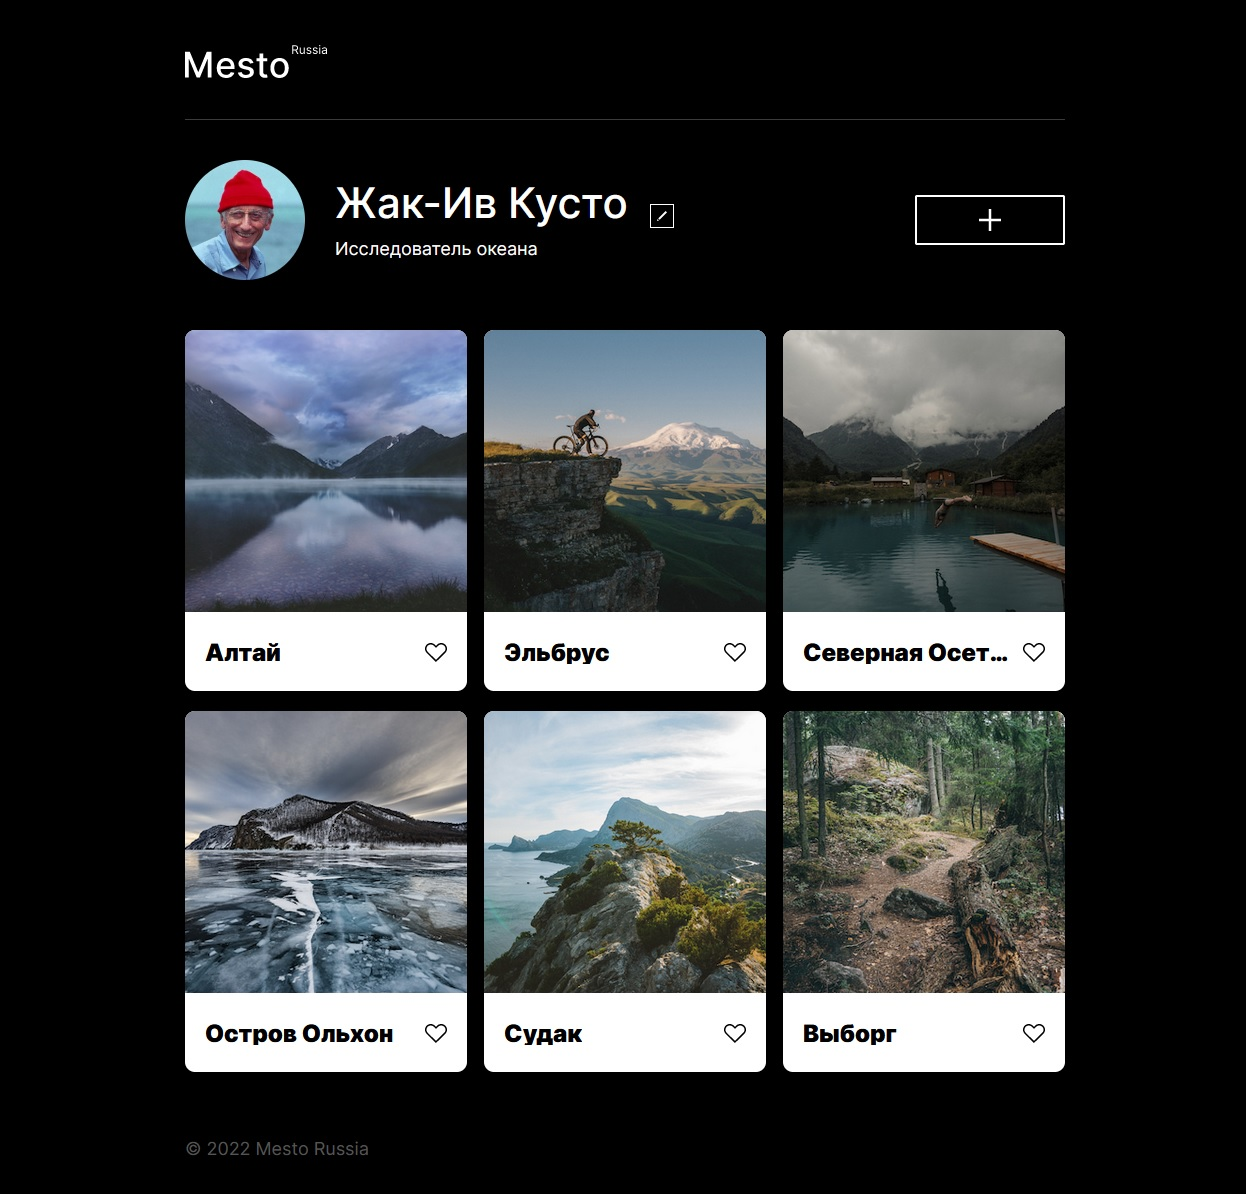
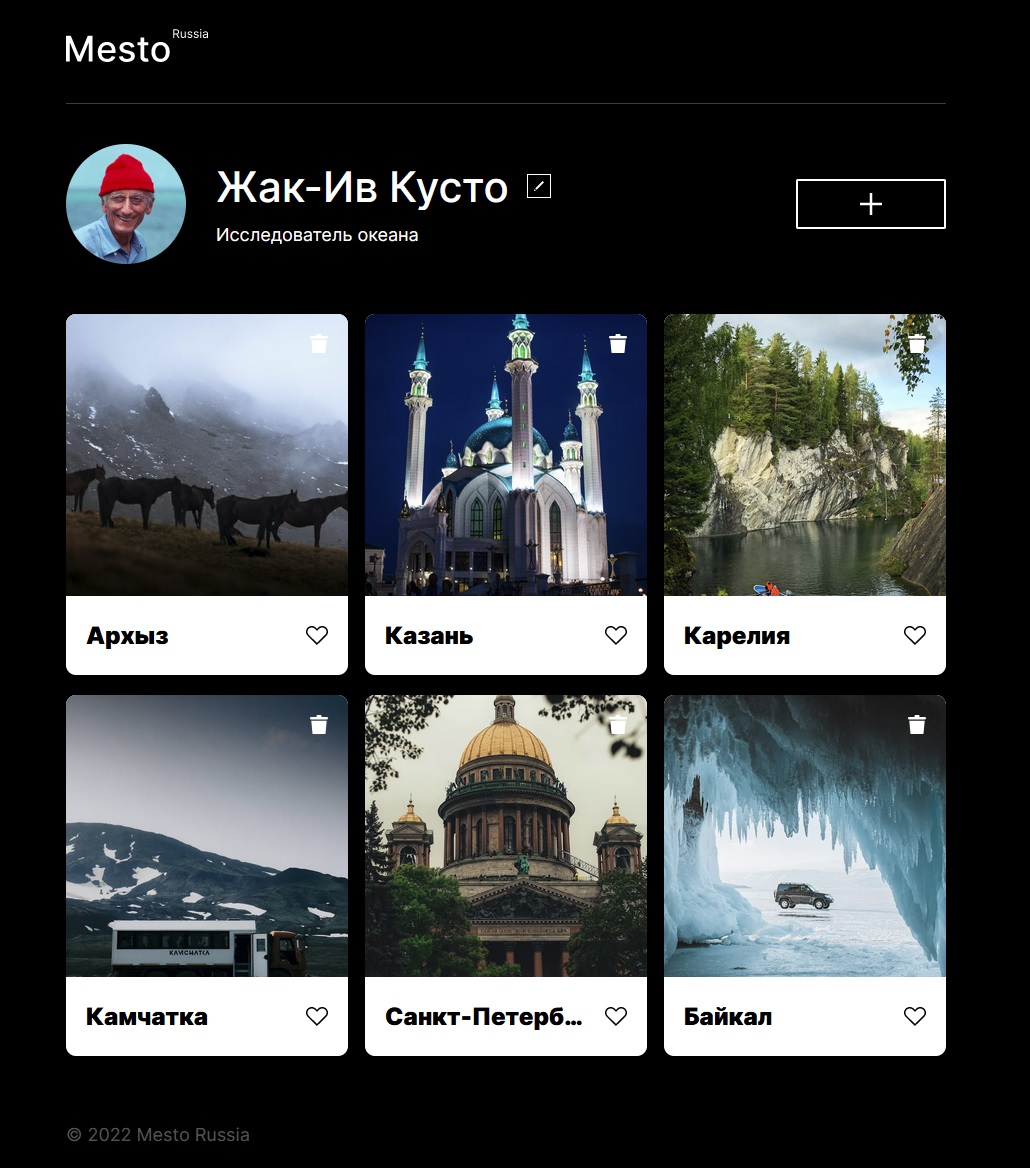
feat: add full interactive page

diff --git a/scripts/index.js b/scripts/index.js
@@ -1,31 +1,138 @@
-const buttonEdit = document.querySelector('.profile__edit-button');
-const buttonClose = document.querySelector('.popup__close-button');
-const popup = document.querySelector('.popup');
-const inputName = document.querySelector('#name-input');
-const inputStatus = document.querySelector('#status-input');
+const initialCards = [
+  {
+    name: 'Архыз',
+    link: 'https://images.unsplash.com/photo-1638989280415-d58f7340b273?ixlib=rb-4.0.3&ixid=MnwxMjA3fDB8MHxwaG90by1wYWdlfHx8fGVufDB8fHx8&auto=format&fit=crop&w=1828&q=80'
+  },
+  {
+    name: 'Казань',
+    link: 'https://images.unsplash.com/photo-1591813009502-761ba948ac9e?ixlib=rb-4.0.3&ixid=MnwxMjA3fDB8MHxwaG90by1wYWdlfHx8fGVufDB8fHx8&auto=format&fit=crop&w=774&q=80'
+  },
+  {
+    name: 'Карелия',
+    link: 'https://images.unsplash.com/photo-1573156667495-f14c98bc2ebc?ixlib=rb-4.0.3&ixid=MnwxMjA3fDB8MHxwaG90by1wYWdlfHx8fGVufDB8fHx8&auto=format&fit=crop&w=870&q=80'
+  },
+  {
+    name: 'Камчатка',
+    link: 'https://images.unsplash.com/photo-1645016978367-5a81d12f915d?ixlib=rb-4.0.3&ixid=MnwxMjA3fDB8MHxwaG90by1wYWdlfHx8fGVufDB8fHx8&auto=format&fit=crop&w=776&q=80'
+  },
+  {
+    name: 'Санкт-Петербург',
+    link: 'https://images.unsplash.com/photo-1630535879508-9a3a8967d9be?ixlib=rb-4.0.3&ixid=MnwxMjA3fDB8MHxzZWFyY2h8MzB8fCVEMCVBMSVEMCVCMCVEMCVCRCVEMCVCQSVEMSU4MiUyMCVEMCU5RiVEMCVCNSVEMSU4MiVEMCVCNSVEMSU4MCVEMCVCMSVEMSU4MyVEMSU4MCVEMCVCM3xlbnwwfHwwfHw%3D&auto=format&fit=crop&w=500&q=60'
+  },
+  {
+    name: 'Байкал',
+    link: 'https://images.unsplash.com/photo-1614000531402-74cca389903f?ixlib=rb-4.0.3&ixid=MnwxMjA3fDB8MHxwaG90by1wYWdlfHx8fGVufDB8fHx8&auto=format&fit=crop&w=774&q=80'
+  }
+];
+
 const profileName = document.querySelector('.profile__name');
 const profileStatus = document.querySelector('.profile__status');
-const formPopup = document.querySelector('#form-popup');
+const buttonEdit = document.querySelector('.profile__edit-button');
+
+const popupEdit = document.querySelector('#popup-edit');
+const inputName = popupEdit.querySelector('#name-input');
+const inputStatus = popupEdit.querySelector('#status-input');
+const formPopupEdit = popupEdit.querySelector('#form-popup');
+
+const buttonsClose = document.querySelectorAll('.popup__close-button');
+
+const buttonAdd = document.querySelector('.profile__add-button');
+
+const popupAdd = document.querySelector('#popup-add');
+const formPopupAdd = popupAdd.querySelector('#form-popup');
+
+const cardTemplate = document.querySelector('#card-template').content;
+const cardsContainer = document.querySelector('.photos__cards-container');
+
+const initCards = () => {
+  const fragment = document.createDocumentFragment();
+
+  initialCards.forEach(({name, link}) => {
+    const cardClone = cardTemplate.querySelector('.card').cloneNode(true);
+
+    cardClone.querySelector('.card__name').textContent = name;
+    cardClone.querySelector('.card__img').src = link;
+    cardClone.querySelector('.card__img').alt = name;
+    fragment.append(cardClone);
+  });
+
+  cardsContainer.append(fragment);
+};
 
 const openEditProfile = () => {
   inputName.value = profileName.textContent;
   inputStatus.value = profileStatus.textContent;
-  popup.classList.add('popup_opened');
+  popupEdit.classList.add('popup_opened');
 };
 
-const closeEditProfile = () => {
-  popup.classList.remove('popup_opened');
+const closePopup = (evt) => {
+  evt.target.closest('.popup').classList.remove('popup_opened');
+  const inputsForm = evt.target.parentNode.querySelectorAll('.popup__input');
+  inputsForm.forEach(el => el.value = '');
 };
 
 const sendFormEditProfile = (evt) => {
   evt.preventDefault();
+
   profileName.textContent = inputName.value;
   profileStatus.textContent = inputStatus.value;
-  closeEditProfile();
+
+  closePopup(evt);
 };
 
+const openAddPicture = () => {
+  popupAdd.classList.add('popup_opened');
+};
+
+const createPicture = (evt) => {
+  evt.preventDefault();
+
+  const inputTitlePlace = popupAdd.querySelector('#title-place-input');
+  const inputSourceImage = popupAdd.querySelector('#source-image-input');
+  const cardClone = cardTemplate.querySelector('.card').cloneNode(true);
+
+  cardClone.querySelector('.card__name').textContent = inputTitlePlace.value;
+  cardClone.querySelector('.card__img').src = inputSourceImage.value;
+  cardClone.querySelector('.card__img').alt = inputTitlePlace.value;
+
+  cardsContainer.prepend(cardClone);
+
+  closePopup(evt);
+};
+
+const likeButton = (evt) => {
+  if (evt.target.classList.contains('card__like-button')) {
+    evt.target.classList.toggle('card__like-button_active');
+  }
+};
+
+const deletePicture = (evt) => {
+  if (evt.target.classList.contains('card__trash-button')) {
+    evt.target.closest('.card').remove();
+  }
+};
+
+const openPopupPicture = (evt) => {
+  const popupPicture = document.querySelector('#popup-picture');
+  const picture = popupPicture.querySelector('.popup__img');
+
+  if (evt.target.classList.contains('card__img')) {
+    picture.src = evt.target.src;
+    picture.alt = evt.target.alt;
+    popupPicture.querySelector('.popup__caption').textContent = evt.target.parentNode.querySelector('.card__name').textContent;
+    popupPicture.classList.add('popup_opened');
+  }
+};
+
+initCards();
+
 buttonEdit.addEventListener('click', openEditProfile);
+buttonAdd.addEventListener('click', openAddPicture);
+buttonsClose.forEach(el => el.addEventListener('click', closePopup));
 
-buttonClose.addEventListener('click', closeEditProfile);
+formPopupEdit.addEventListener('submit', sendFormEditProfile);
+formPopupAdd.addEventListener('submit', createPicture);
 
-formPopup.addEventListener('submit', sendFormEditProfile);
+cardsContainer.addEventListener('click', likeButton);
+cardsContainer.addEventListener('click', deletePicture);
+cardsContainer.addEventListener('click', openPopupPicture)

diff --git a/index.html b/index.html
@@ -13,6 +13,7 @@
       <img src="./images/logo.svg" alt="Логотип сайта" class="header__logo">
     </a>
   </header>
+
   <main>
     <section class="profile" aria-label="Профиль">
       <div class="profile__container">
@@ -28,57 +29,15 @@
       <button type="button" class="profile__add-button button" aria-label="Добавить фотографию"></button>
     </section>
     <section class="photos" aria-label="Фотографии">
-      <ul class="photos__cards-container">
-        <li class="card">
-          <img src="./images/altai.jpg" alt="Пасмурная, приятного цвета погода на берегу озера на фоне больших, красивых гор" class="card__img">
-          <div class="card__container">
-            <h2 class="card__name">Алтай</h2>
-            <button type="button" class="card__like-button button" aria-label="Лайк"></button>
-          </div>
-        </li>
-        <li class="card">
-          <img src="./images/elbrus.jpg" alt="Высокий, резкий обрыв, на котором силуэт велосипедиста, смотрящего вдаль, на зеленые поля и горы со снегом" class="card__img">
-          <div class="card__container">
-            <h2 class="card__name">Эльбрус</h2>
-            <button type="button" class="card__like-button button" aria-label="Лайк"></button>
-          </div>
-        </li>
-        <li class="card">
-          <img src="./images/north-osetia.jpg" alt="Парень ныряет в озеро, на другом берегу коттеджный дом. На фоне Высокие горы, пропадающие в облаках" class="card__img">
-          <div class="card__container">
-            <h2 class="card__name">Северная Осетия</h2>
-            <button type="button" class="card__like-button button" aria-label="Лайк"></button>
-          </div>
-        </li>
-        <li class="card">
-          <img src="./images/olkhon-island.jpg" alt="Покрытое толстым льдом озеро, на фоне заснеженный, скалистый остров" class="card__img">
-          <div class="card__container">
-            <h2 class="card__name">Остров Ольхон</h2>
-            <button type="button" class="card__like-button button" aria-label="Лайк"></button>
-          </div>
-        </li>
-        <li class="card">
-          <img src="./images/sudak.jpg" alt="Вид с высоких гор на море, посередине горный выступ с деревом" class="card__img">
-          <div class="card__container">
-            <h2 class="card__name">Судак</h2>
-            <button type="button" class="card__like-button button" aria-label="Лайк"></button>
-          </div>
-        </li>
-        <li class="card">
-          <img src="./images/vyborg.jpg" alt="Лесная роща с огромными, покрытыми мхом валунами" class="card__img">
-          <div class="card__container">
-            <h2 class="card__name">Выборг</h2>
-            <button type="button" class="card__like-button button" aria-label="Лайк"></button>
-          </div>
-        </li>
-      </ul>
+      <ul class="photos__cards-container"></ul>
     </section>
   </main>
+
   <footer class="footer">
     <p class="footer__copyright" lang="en">&copy; 2022 Mesto Russia</p>
   </footer>
 
-  <div class="popup">
+  <div id="popup-edit" class="popup">
     <div class="popup__container">
       <button type="button" class="popup__close-button button" aria-label="Закрытие формы"></button>
       <form action="#" id="form-popup" name="form-popup">
@@ -89,6 +48,40 @@
       </form>
     </div>
   </div>
+
+  <div id="popup-add" class="popup">
+    <div class="popup__container">
+      <button type="button" class="popup__close-button button" aria-label="Закрытие формы"></button>
+      <form action="#" id="form-popup" name="form-popup">
+        <h2 class="popup__name">Новое место</h2>
+        <input id="title-place-input" name="title-place" class="popup__input" type="text" placeholder="Название">
+        <input id="source-image-input" name="source-image" class="popup__input" type="text" placeholder="Ссылка на картинку">
+        <button class="popup__submit-button button" type="submit">Создать</button>
+      </form>
+    </div>
+  </div>
+
+  <div id="popup-picture" class="popup">
+    <div class="popup__container popup__container_type_picture">
+      <button type="button" class="popup__close-button button" aria-label="Закрытие полноэкранного просмотра картинки"></button>
+      <figure class="popup__figure">
+        <img class="popup__img" src="" alt="">
+        <figcaption class="popup__caption"></figcaption>
+      </figure>
+    </div>
+  </div>
+
+  <template id="card-template">
+    <li class="card">
+      <button type="button" class="card__trash-button button" aria-label="Корзина"></button>
+      <img src="" alt="" class="card__img">
+      <div class="card__container">
+        <h2 class="card__name"></h2>
+        <button type="button" class="card__like-button button" aria-label="Лайк"></button>
+      </div>
+    </li>
+  </template>
+  
   <script src="./scripts/index.js"></script>
 </body>
 </html>

diff --git a/pages/index.css b/pages/index.css
@@ -6,10 +6,12 @@
 @import url(../blocks/page/page.css);
 
 @import url(../blocks/card/card.css);
+@import url(../blocks/card/__trash-button/card__trash-button.css);
 @import url(../blocks/card/__img/card__img.css);
 @import url(../blocks/card/__container/card__container.css);
 @import url(../blocks/card/__name/card__name.css);
 @import url(../blocks/card/__like-button/card__like-button.css);
+@import url(../blocks/card/__like-button/_active/card__like-button_active.css);
 
 @import url(../blocks/header/header.css);
 @import url(../blocks/header/__logo-link/header__logo-link.css);
@@ -32,8 +34,12 @@
 
 @import url(../blocks/popup/popup.css);
 @import url(../blocks/popup/__container/popup__container.css);
+@import url(../blocks/popup/__container/_type/popup__container_type_picture.css);
 @import url(../blocks/popup/__name/popup__name.css);
 @import url(../blocks/popup/__input/popup__input.css);
 @import url(../blocks/popup/__submit-button/popup__submit-button.css);
 @import url(../blocks/popup/__close-button/popup__close-button.css);
 @import url(../blocks/popup/_opened/popup_opened.css);
+@import url(../blocks/popup/__figure/popup__figure.css);
+@import url(../blocks/popup/__img/popup__img.css);
+@import url(../blocks/popup/__caption/popup__caption.css);

diff --git a/blocks/card/__trash-button/card__trash-button.css b/blocks/card/__trash-button/card__trash-button.css
@@ -1,0 +1,16 @@
+.card__trash-button {
+  position: absolute;
+  top: 20px;
+  right: 20px;
+  width: 18px;
+  height: 19px;
+  background-image: url(../../../images/trash-button.svg);
+  background-repeat: no-repeat;
+  background-position: center center;
+  border: none;
+  transition: opacity .3s ease-in-out;
+}
+
+.card__trash-button:hover {
+  opacity: .6;
+}

diff --git a/blocks/popup/popup.css b/blocks/popup/popup.css
@@ -1,11 +1,14 @@
 .popup {
+  display: flex;
   position: fixed;
   top: 0;
   left: 0;
   width: 100%;
   height: 100%;
-  display: none;
+  visibility: hidden;
+  opacity: 0;
   justify-content: center;
   align-items: center;
   background-color: rgba(0, 0, 0, .5);
+  transition: visibility .3s, opacity .3s ease-in-out;
 }

diff --git a/blocks/popup/__caption/popup__caption.css b/blocks/popup/__caption/popup__caption.css
@@ -1,0 +1,13 @@
+.popup__caption {
+  max-width: 291px;
+  font-weight: 400;
+  font-size: 12px;
+  line-height: 15px;
+  color: #FFF;
+}
+
+@media (max-width: 600px) {
+  .popup__caption {
+    max-width: 240px;
+  }
+}

diff --git a/blocks/popup/__container/popup__container.css b/blocks/popup/__container/popup__container.css
@@ -3,7 +3,7 @@
   position: absolute;
   box-sizing: border-box;
   padding: 35px;
-  background: #FFFFFF;
+  background: #FFF;
   box-shadow: 0px 0px 25px rgba(0, 0, 0, 0.15);
   border-radius: 10px;
 }

diff --git a/blocks/popup/__container/_type/popup__container_type_picture.css b/blocks/popup/__container/_type/popup__container_type_picture.css
@@ -1,0 +1,6 @@
+.popup__container_type_picture {
+  padding: 0;
+  min-width: none;
+  background: none;
+  border-radius: 0;
+}

diff --git a/blocks/card/card.css b/blocks/card/card.css
@@ -1,4 +1,5 @@
 .card {
+  position: relative;
   overflow: hidden;
   border-radius: 10px;
   background-color: #FFF;

diff --git a/blocks/card/__like-button/_active/card__like-button_active.css b/blocks/card/__like-button/_active/card__like-button_active.css
@@ -1,0 +1,3 @@
+.card__like-button_active {
+  background-image: url(../../../../images/like-button-active.svg);
+}

diff --git a/blocks/popup/__img/popup__img.css b/blocks/popup/__img/popup__img.css
@@ -1,0 +1,5 @@
+.popup__img {
+  margin-bottom: 12px;
+  max-width: 75vw;
+  max-height: 75vh;
+}

diff --git a/blocks/popup/_opened/popup_opened.css b/blocks/popup/_opened/popup_opened.css
@@ -1,3 +1,4 @@
 .popup_opened {
-  display: flex;
+  visibility: visible;
+  opacity: 1;
 }
